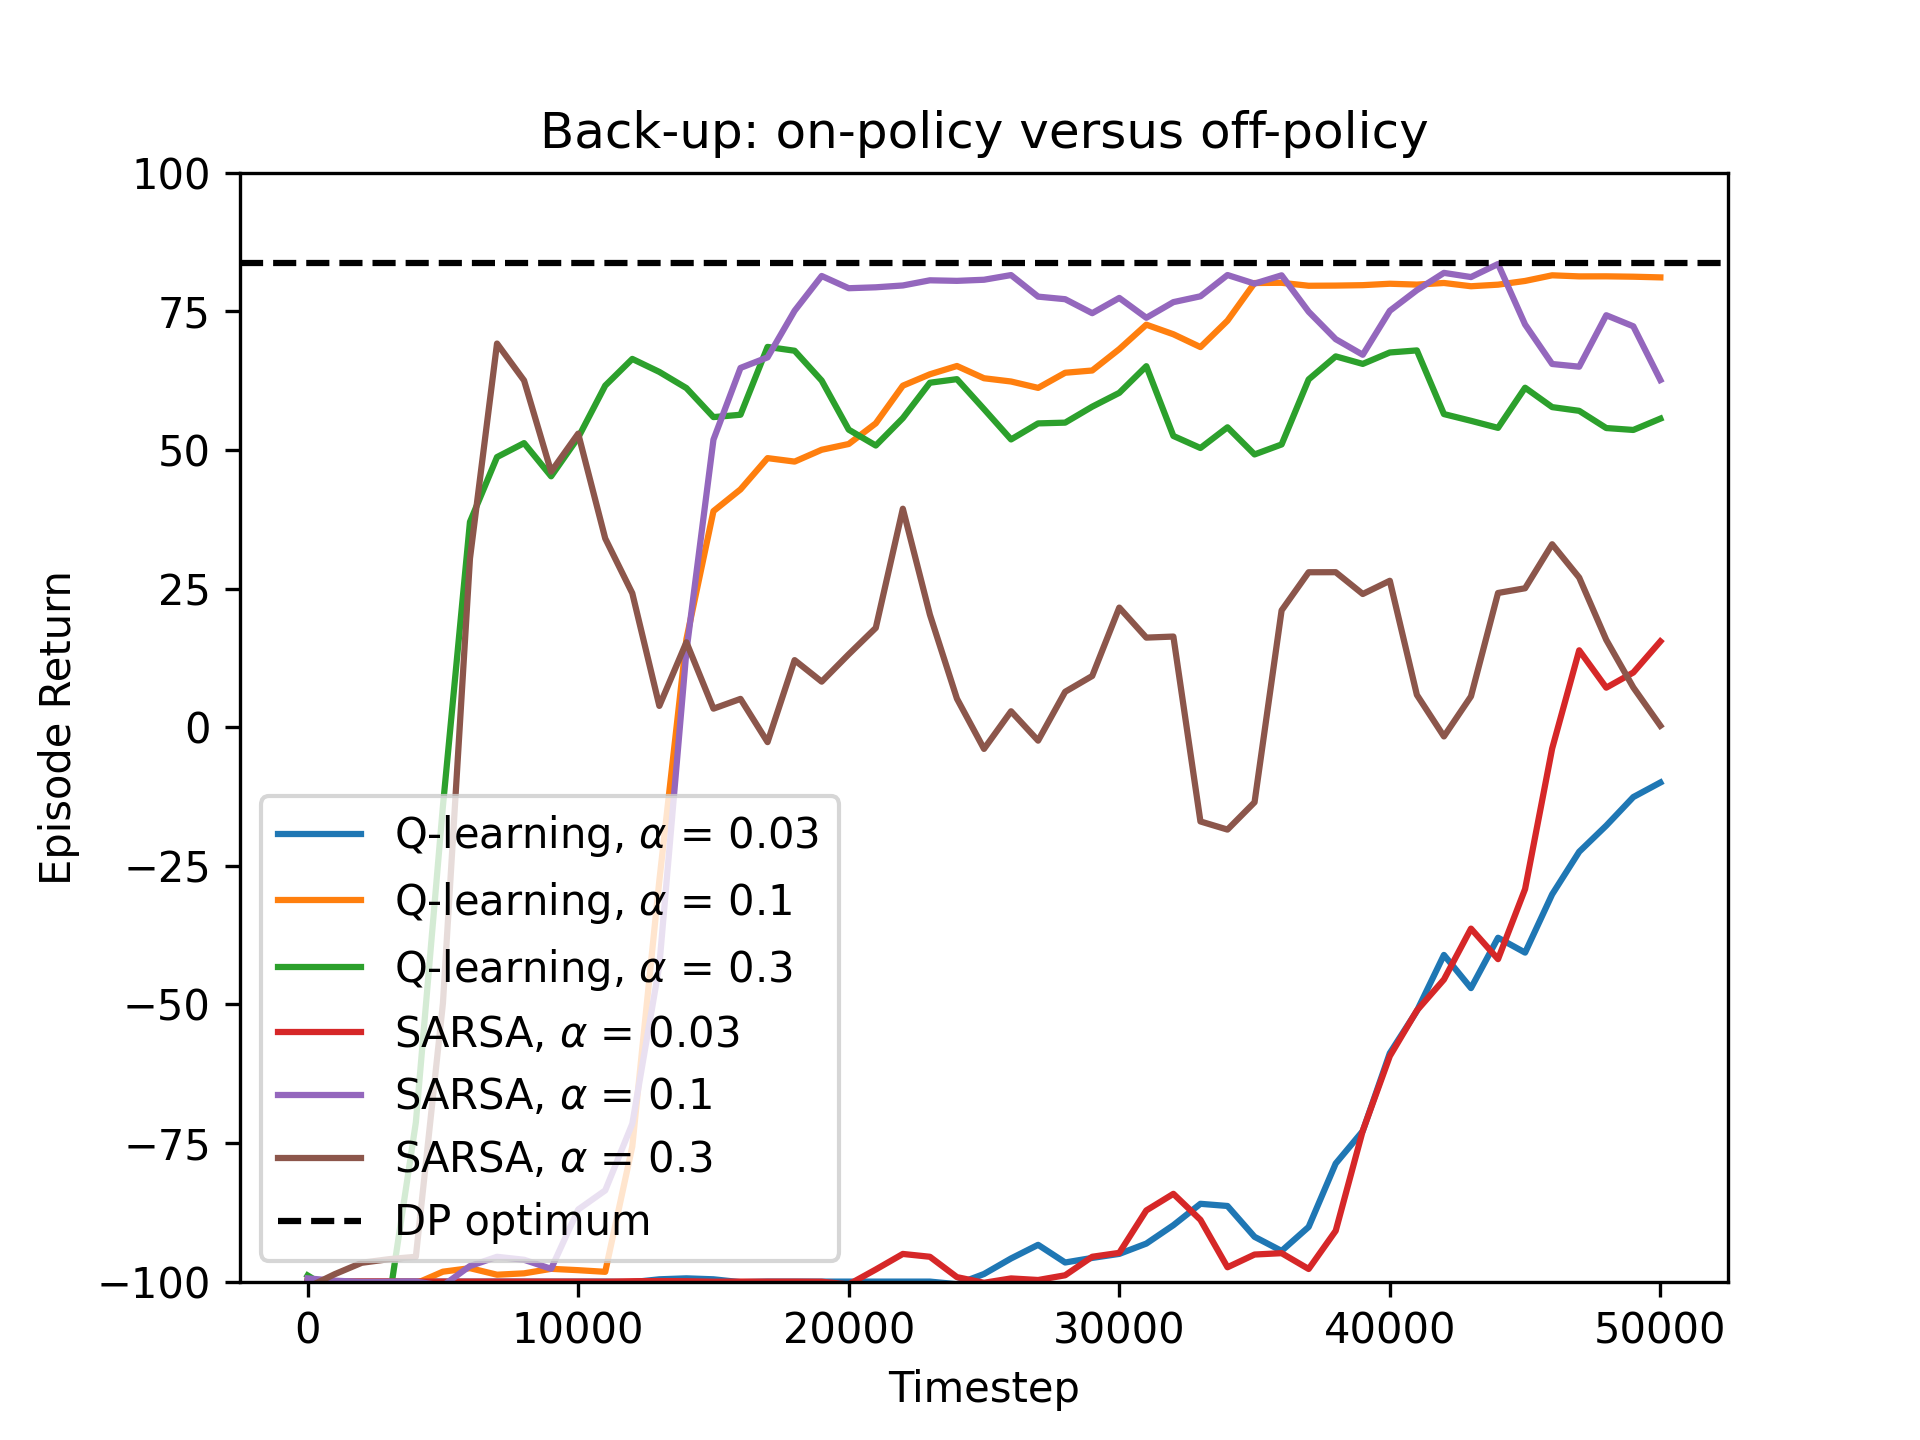
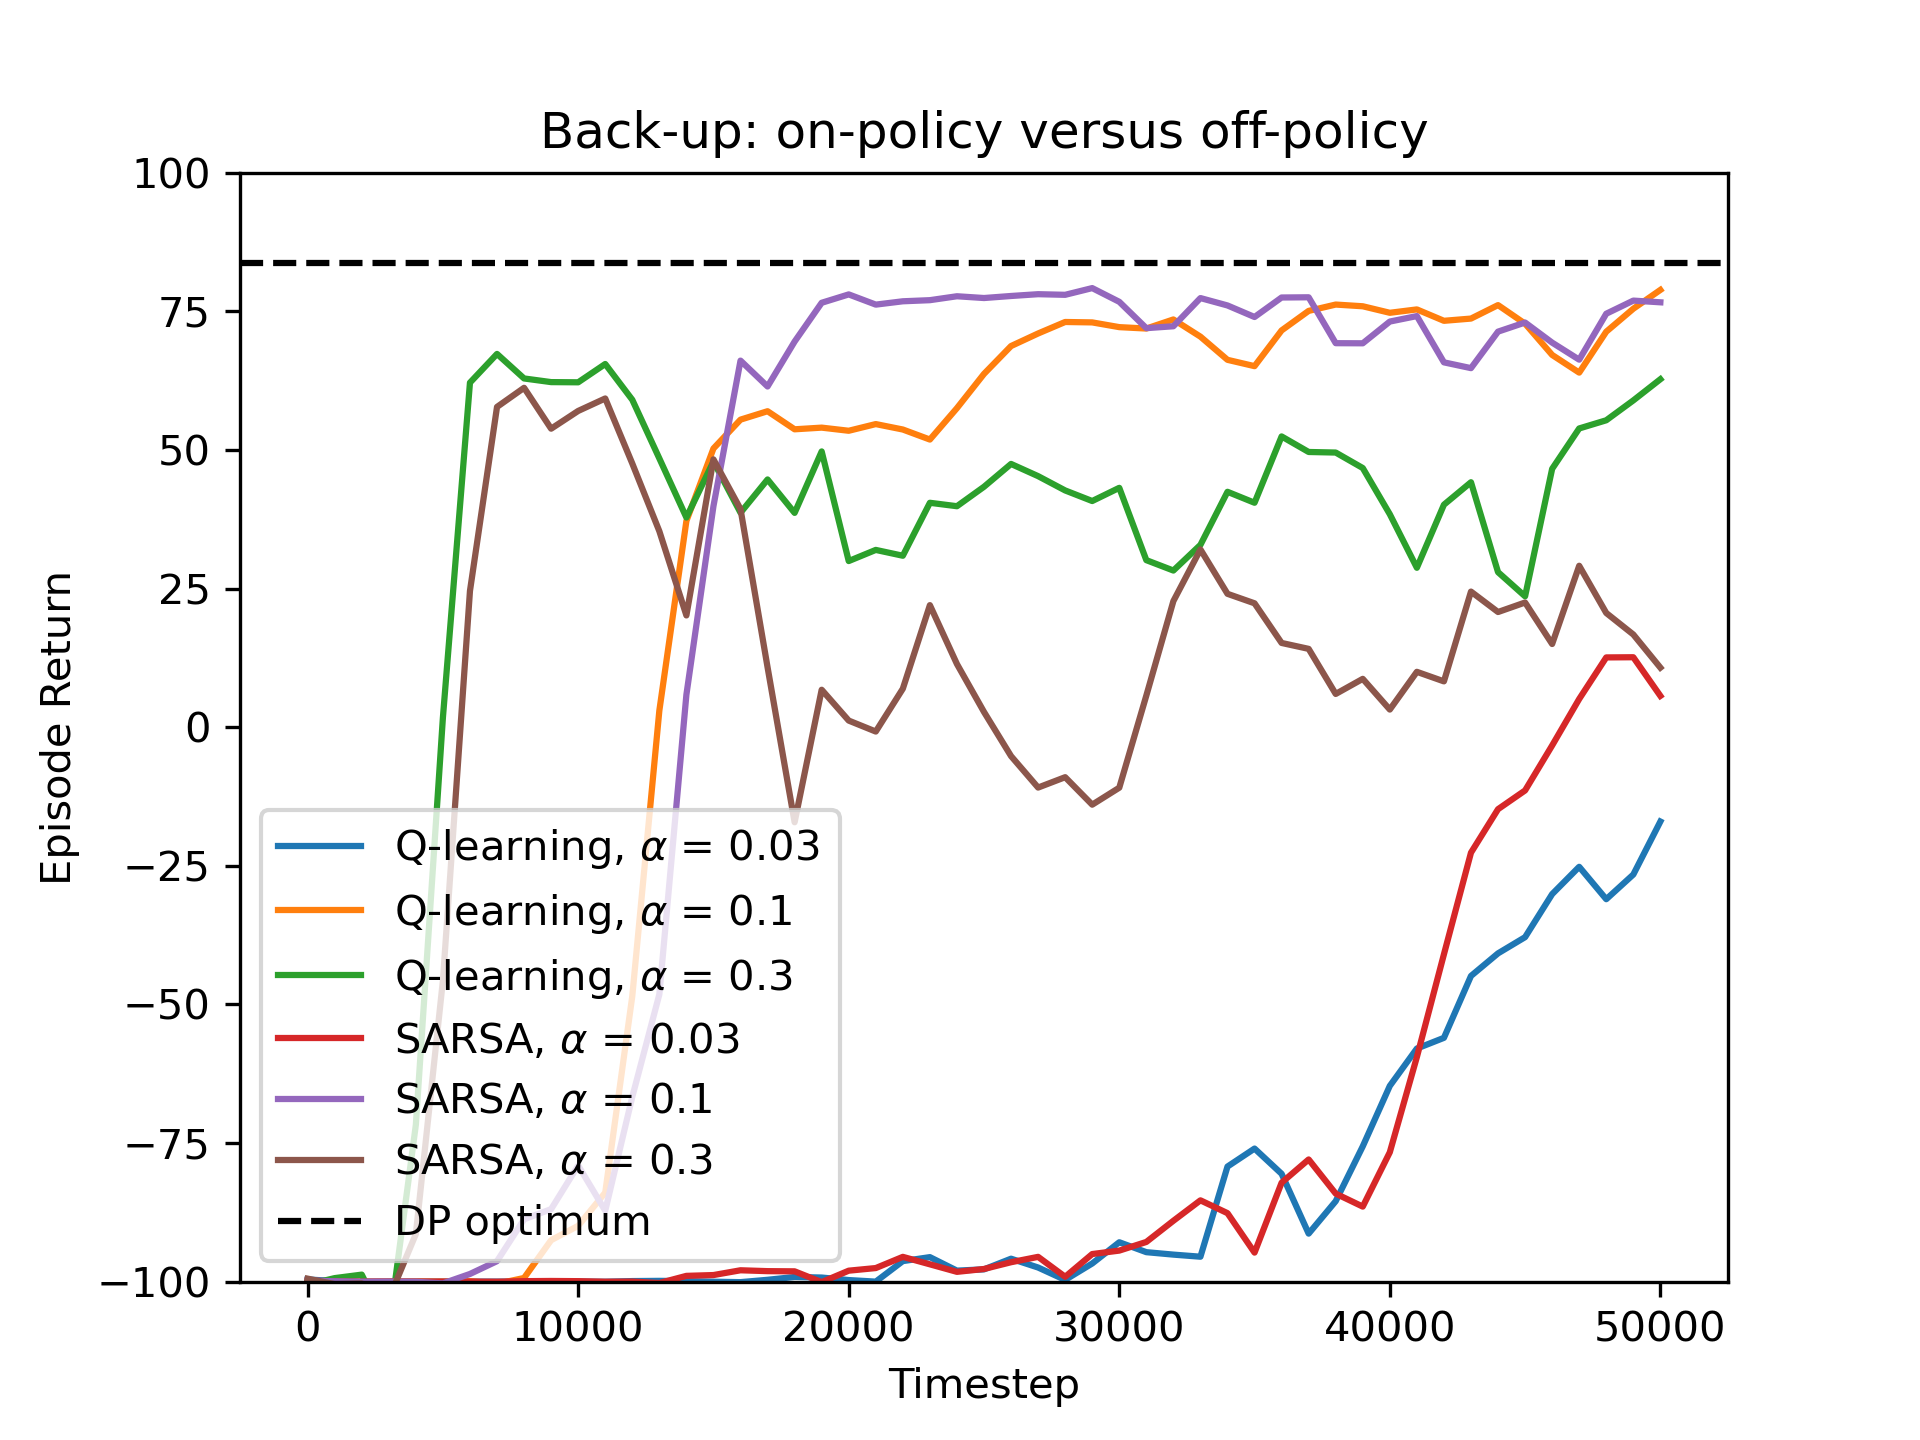
Ran full experiment + tuned MC

diff --git a/Experiment.py b/Experiment.py
@@ -77,9 +77,6 @@ def experiment():
     optimal_episode_return = 83.67825468739042 # set the optimal return per episode you found in the DP assignment here
     
     #### Assignment 2: Effect of exploration
-    goal_locations = [[7, 3], [3, 2]]
-    goal_rewards = [100, 5]
-
     policy = 'egreedy'
     epsilons = [0.03,0.1,0.3]
     learning_rate = 0.1
@@ -118,7 +115,7 @@ def experiment():
     Plot.add_hline(optimal_episode_return, label="DP optimum")
     Plot.save('on_off_policy.png')
     
-    # # ##### Assignment 4: Back-up depth
+    ##### Assignment 4: Back-up depth
     policy = 'egreedy'
     epsilon = 0.05 # set epsilon back to original value
     learning_rate = 0.1
@@ -134,11 +131,11 @@ def experiment():
 
     backup = 'mc'
 
-    # Keeping the same parameters and commenting these out for a fair comparison
+    # Keeping the same parameters and commenting these out for a fair comparison, or not!
     # MC parameters:
-    # epsilon = 0.2
-    # learning_rate = 0.03
-    # max_episode_length = 500
+    epsilon = 0.2 #0.4, 0.2
+    learning_rate = 0.03 #0.02, 0.03
+    max_episode_length = 300 #300
 
     print('Running Monte Carlo')
     learning_curve, timesteps = average_over_repetitions(backup, n_repetitions, n_timesteps, max_episode_length, learning_rate, 
